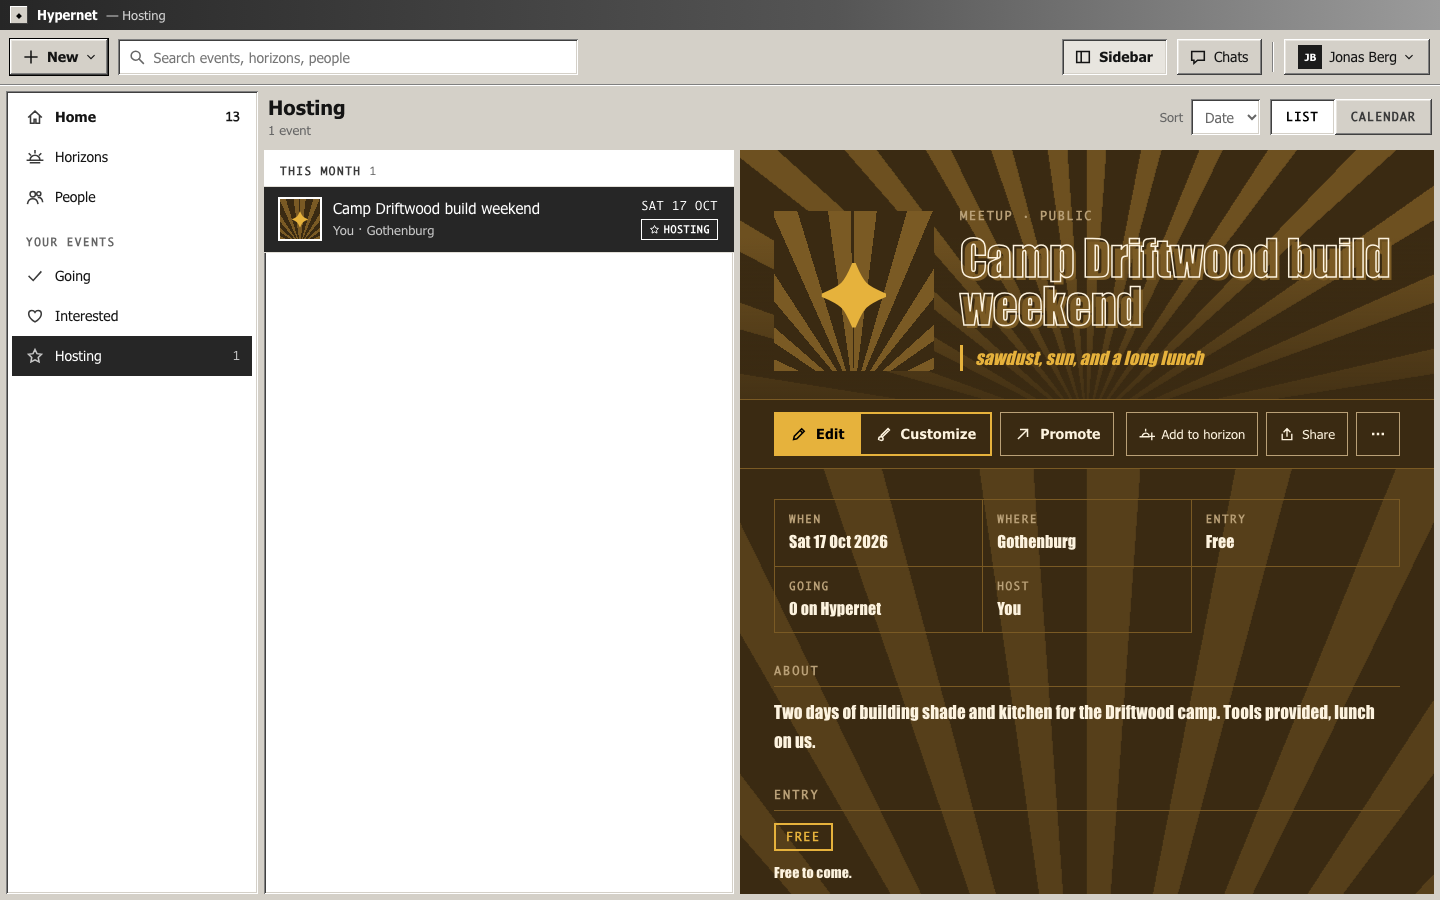
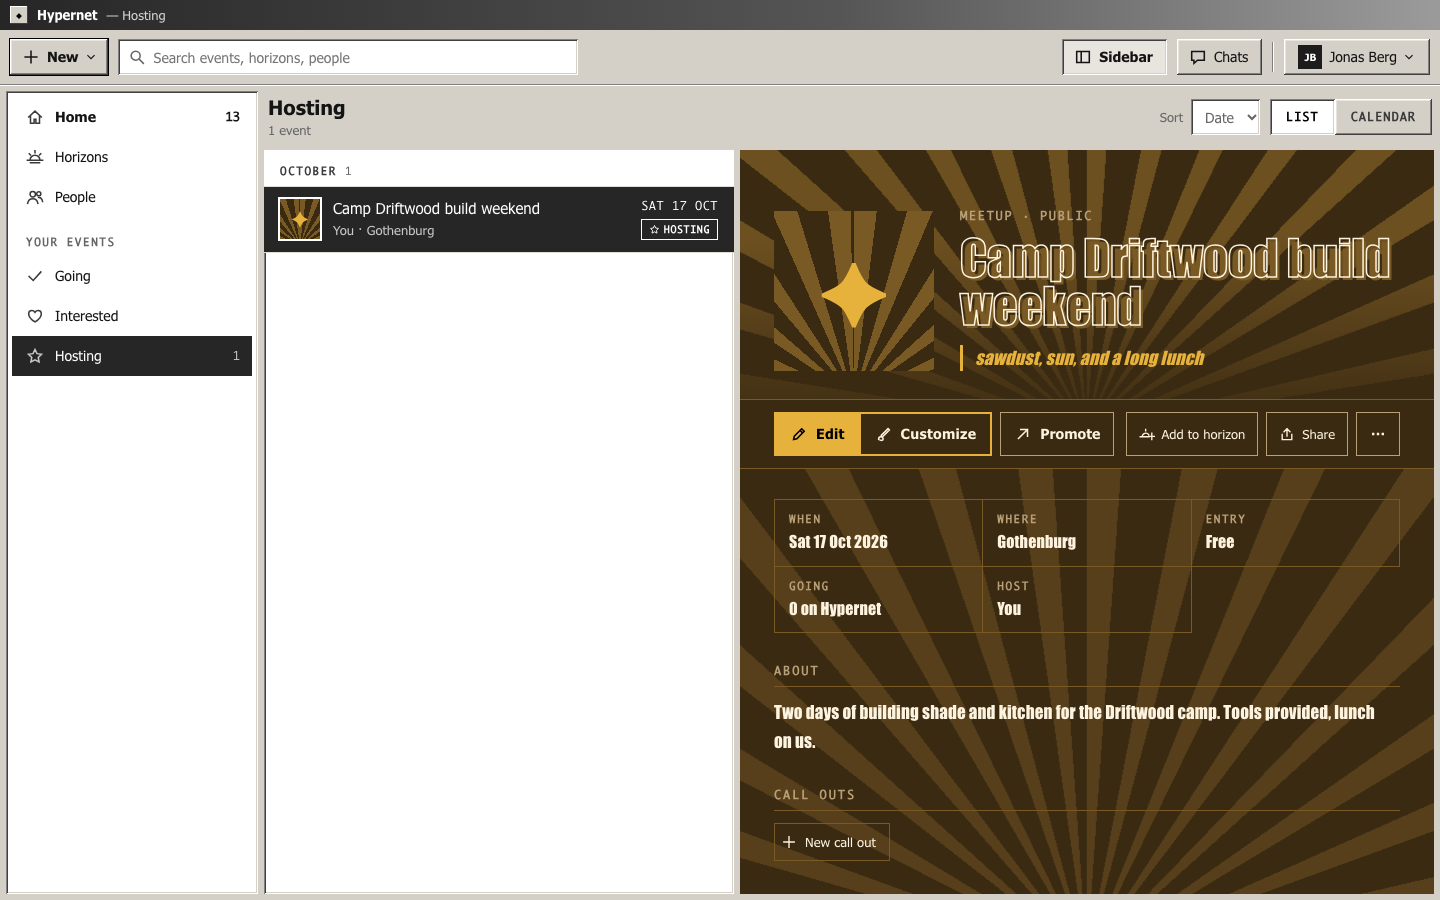
docs(usability): round 2 screenshots, regression for the majors, plan status
- tests/regression.js covers the round-2 majors (toast vs verb bar and
  the late tap, private horizons, horizon destination, shifts) and
  Cancel/Discard safety
- Refreshed docs/screens; FIX-PLAN Round 2 section complete

Changed region(s): [[0.5, 0.4978, 1.0, 0.9956], [0.1875, 0.1867, 0.25, 0.2178]]

diff --git a/tests/regression.js b/tests/regression.js
@@ -1,4 +1,4 @@
-/* Hypernet feed — end-to-end regression (usability round 1, Phases A–C).
+/* Hypernet feed — end-to-end regression (usability rounds 1 and 2).
    Serve:  python3 -m http.server 8936 --bind 127.0.0.1 --directory <repo>
    Run:    npx -y -p playwright node tests/regression.js
    Browser: Playwright's own Chromium when it is installed; otherwise PW_CHROME=<chromium binary>; otherwise
@@ -7,7 +7,8 @@
    HN_URL=<url> points it at another server.
    Covers: open event → Going; create horizon → add events → customize → reload; new group chat;
    right-click → Add to horizon; long-press sheet; back/forward/reload restore; console errors, failed
-   requests (404s) and horizontal overflow at 375 (touch), 768 and 1440. */
+   requests (404s) and horizontal overflow at 375 (touch), 768 and 1440; plus the round-2 majors: toasts vs the
+   phone verb bar, private horizons, horizon as a desktop destination, volunteer shifts, safe Cancel/Discard. */
 let chromium;
 try { ({ chromium } = require('playwright')); } catch(e){
   try { ({ chromium } = require('playwright-core')); } catch(e2){
@@ -186,6 +187,49 @@ async function overflowEverywhere(p, label){
   ok(await ev(d, h => location.hash === h && !!document.querySelector('#listbody .row.sel') && S.rightOpen, h3), 'desktop: reload restores selection and the dock');
   await overflowEverywhere(d, 'desktop 1440');
   console.log('desk errors', d.errors); ok(!d.errors.length, 'desktop: no console errors');
+
+  /* ---------------- round 2 majors ---------------- */
+  // CREW-R2-1: toasts sit above the phone's verb bar; a late tap where a toast button was never sets Going
+  const r = await ctx('phone');
+  await open(r, '#/event/led-forest-walk', true);
+  await r.evaluate(() => loginDialog()); await r.waitForTimeout(150);
+  await r.tap('.dlg [data-act="useacct"][data-id="demo"]'); await r.waitForTimeout(300);
+  await r.tap('#evbar [data-act="v-interested"]'); await r.waitForTimeout(150);
+  ok(await ev(r, () => document.querySelector('#toasts .toast').getBoundingClientRect().bottom <= document.getElementById('evbar').getBoundingClientRect().top), 'R2: toast sits above the phone verb bar');
+  await r.tap('#evbar [data-act="evmore"]'); await r.waitForTimeout(200);
+  await r.tap('.ctxsheet .sheetrow:has-text("Share")'); await r.waitForTimeout(250);
+  await r.tap('#sh-list .linkrow[data-chat="c-baltic"]'); await r.waitForTimeout(250);
+  const tb = await r.locator('#toasts [data-act="toastundo"]').boundingBox();
+  await r.waitForTimeout(6200);
+  const rs = await ev(r, () => RSVP['evt-fill-3'] || null);
+  await r.touchscreen.tap(tb.x + tb.width / 2, tb.y + tb.height / 2); await r.waitForTimeout(250);
+  ok(await ev(r, b => (RSVP['evt-fill-3'] || null) === b, rs), 'R2: a late tap on a vanished toast button changes no RSVP');
+  // CREW-R2-2: a volunteer shift can be taken
+  await r.goto(URL + '#/event/temple-volunteer-shift'); await r.waitForTimeout(500);
+  await r.evaluate(() => document.querySelector('[data-act="takeshift"][data-i="2"]').scrollIntoView({ block:'center' }));
+  await r.tap('[data-act="takeshift"][data-i="2"]'); await r.waitForTimeout(200);
+  ok(await ev(r, () => SHIFT['evt-fill-5'] === 2 && RSVP['evt-fill-5'] === 'going' && !/Pick a shift/.test(document.body.innerText)), 'R2: taking a shift sets Going with that shift');
+  // PHONEBROWSER-R2-1: Cancel keeps a draft; Discard is not where Cancel is, and can be undone
+  await r.evaluate(() => runCmd('new-callout')); await r.waitForTimeout(200);
+  await r.fill('#co-t', 'Two builders'); await r.waitForTimeout(100);
+  ok(await ev(r, () => document.querySelector('.dlg .dfoot .btn').textContent.trim() === 'Cancel' && !!document.querySelector('.dlg .dbar [data-act="discarddraft"]')), 'R2: Cancel in the footer, Discard in the title bar');
+  await r.tap('.dlg .dfoot [data-act="closedlg"]'); await r.waitForTimeout(250);
+  ok(await ev(r, () => FORMDRAFTS.callout && FORMDRAFTS.callout['co-t'] === 'Two builders'), 'R2: Cancel keeps the draft');
+  console.log('r2 phone errors', r.errors); ok(!r.errors.length, 'R2 phone: no console errors');
+  // ORGANISER-R2-1 / -2: a private horizon offers Publish, not Share; on desktop a horizon is its own destination
+  const o = await ctx('desk');
+  await open(o, '', true);
+  await join(o, 'Jonas Berg', 'jonas');
+  await o.evaluate(() => runCmd('new-horizon')); await o.waitForTimeout(150);
+  await o.fill('#nh-n', 'Driftwood crew season'); await o.click('#nh-go'); await o.waitForTimeout(300);
+  ok(await ev(o, () => S.folder.kind === 'horizon' && getComputedStyle(document.getElementById('chead')).display === 'none' && document.querySelectorAll('#navbody .nrow.sel').length === 1),
+     'R2: a horizon is the desktop destination, one sidebar row lit');
+  ok(await ev(o, () => !!document.querySelector('#listbody [data-act="publishhz"]') && !document.querySelector('#listbody [data-act="share"]')), 'R2: an empty private horizon offers Publish, no Share');
+  const priv = await ev(o, () => location.hash);
+  const x = await ctx('desk');
+  await open(x, priv, true);
+  ok(await ev(x, () => /private or no longer here/.test(document.body.innerText) && location.hash.indexOf('#/horizon/') === 0), 'R2: its link elsewhere says it is private, not a silent redirect');
+  console.log('r2 desk errors', o.errors, x.errors); ok(!o.errors.length && !x.errors.length, 'R2 desktop: no console errors');
 
   /* ---------------- tablet ---------------- */
   const t = await ctx('tab');

diff --git a/docs/usability/FIX-PLAN.md b/docs/usability/FIX-PLAN.md
@@ -343,3 +343,9 @@ name fills the handle (numbered if taken), so Join lights up. Logged-out Share i
 closes it. Right-click / long-press now works on people (Open, Message, Follow), call outs (Open, Answer / Open chat or
 Edit / Close, Share) and chats (Open, Rename, Add people, Leave; DM: Profile). "Add to horizon" is one label everywhere.
 Horizon Customize previews the horizon page first.
+
+**Round 2 status:** all 55 new findings and the 8 round-1 partials addressed across R2-1 … R2-9c, except the
+follower-feed half of CREW-17 (the prototype has no model of who follows you). `tests/regression.js` now also covers
+the four majors (toast vs verb bar incl. the late tap, private horizon Publish/Share and its link, horizon as a desktop
+destination, volunteer shifts) plus Cancel/Discard safety; it passes at 375 / 768 / 1440 with no console errors or
+failed requests.
